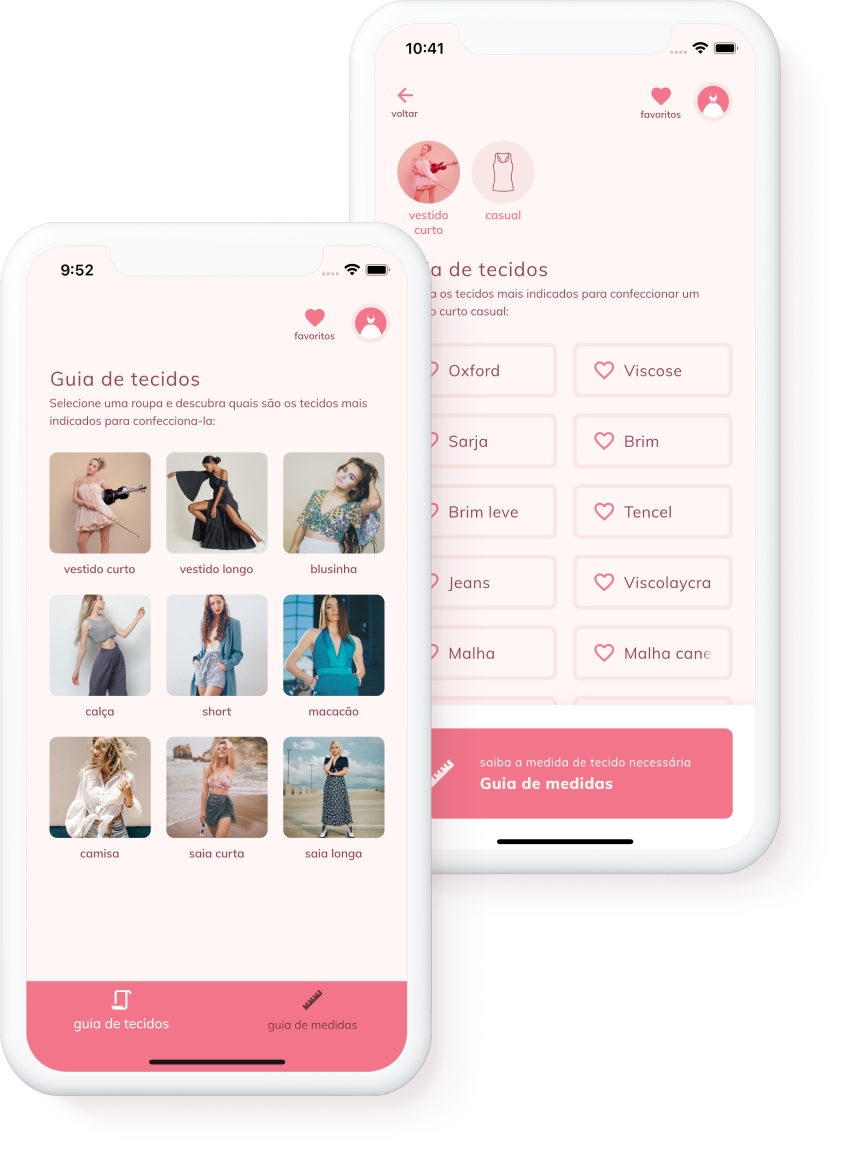
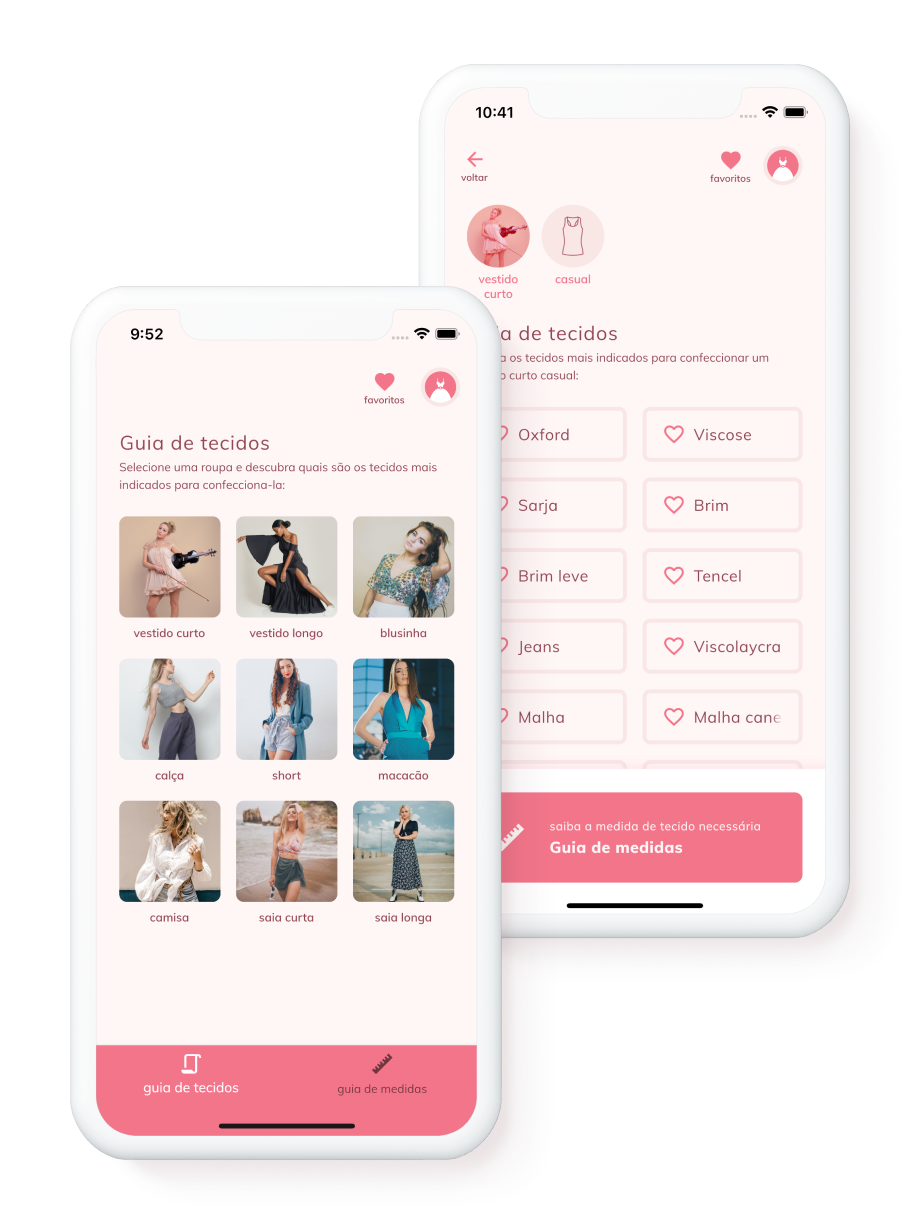
feat: responsive

diff --git a/src/components/Footer/index.ts b/src/components/Footer/index.ts
@@ -1,5 +1,6 @@
 import { LitElement, html } from 'lit';
 import { privacyPolicy } from '../../constants/routes';
+import { developer } from '../../constants/external-links';
 import '../nav-social/nav-social';
 import styles from './styles';
 
@@ -11,6 +12,8 @@ export class FooterComponent extends LitElement {
       <footer>
         <container-component justifyContent="space-between" alignItems="center">
           <div class="footer-left">
+            <nav-social></nav-social>
+
             <a
               href=${privacyPolicy.path}
               title="Política de privacidade do Aplicativo"
@@ -19,13 +22,18 @@ export class FooterComponent extends LitElement {
                 Política de privacidade do App
               </ds-paragraph>
             </a>
-            <ds-paragraph size="small">
-              © 2021, Desenvolvido por Abner Simões
-            </ds-paragraph>
           </div>
 
           <div class="footer-right">
-            <nav-social></nav-social>
+            <ds-paragraph size="small">
+              © 2021, Desenvolvido por
+              <a
+                href=${developer}
+                title="Portfólio do desenvolvedor Abner Simões"
+                target="_blank"
+                >Abner Simões</a
+              >
+            </ds-paragraph>
           </div>
         </container-component>
       </footer>

diff --git a/src/components/Footer/styles.ts b/src/components/Footer/styles.ts
@@ -2,17 +2,65 @@ import { css } from 'lit';
 
 export default css`
   :host {
-    display: block;
+    display: flex;
   }
 
   footer {
     width: 100%;
-    height: 8rem;
+    padding: var(--spacing-inset-sm) 0;
+    margin-top: var(--spacing-outset-sm);
+  }
+
+  .footer-left,
+  .footer-right {
+    width: 100%;
+    text-align: center;
   }
 
   .footer-left a {
-    color: var(--color-primary-dark);
-    margin-bottom: 1rem;
     display: block;
+    color: var(--color-primary-dark);
+    margin: var(--spacing-outset-sm) 0 var(--spacing-outset-xs) 0;
   }
+
+  .footer-left nav-social {
+    justify-content: center;
+  }
+
+  @media only screen and (min-width: 480px) {
+  }
+
+  /* @media only screen and (min-width: 600px) { */
+  @media only screen and (min-width: 900px) {
+    footer {
+      /* padding: 0; */
+      margin-top: 0;
+    }
+
+    .footer-left,
+    .footer-right {
+      width: 50%;
+    }
+
+    .footer-left {
+      text-align: left;
+    }
+
+    .footer-right {
+      text-align: right;
+      align-self: flex-end;
+    }
+
+    .footer-left nav-social {
+      justify-content: flex-start;
+      margin-bottom: 0;
+    }
+
+    .footer-left a {
+      margin-bottom: var(--spacing-outset-xxs);
+    }
+  }
+
+  /* @media only screen and (min-width: 900px) {
+  } */
 `;

diff --git a/src/components/Header/index.ts b/src/components/Header/index.ts
@@ -1,5 +1,6 @@
 import { LitElement, html } from 'lit';
 import { property } from 'lit/decorators.js';
+import clsx from 'clsx';
 import styles from './styles';
 import { home } from '../../constants/routes';
 import { playStore, appStore } from '../../constants/external-links';
@@ -20,8 +21,12 @@ export class HeaderComponent extends LitElement {
     window.open(store, '_blank');
   }
 
+  _isMobile(): boolean {
+    return getIsMobile();
+  }
+
   _renderDownloadButton() {
-    if (getIsMobile()) {
+    if (this._isMobile()) {
       return html`
         <ds-button @on-click=${() => this._redirectToStore()} raised>
           Baixar App
@@ -35,7 +40,11 @@ export class HeaderComponent extends LitElement {
     return html`
       <header>
         <container-component justifyContent="space-between" alignItems="center">
-          <a href=${home.path} title="Página inicial" class="logo">
+          <a
+            href=${home.path}
+            title="Página inicial"
+            class=${clsx('logo', { isMobile: this._isMobile() })}
+          >
             <img src=${logo} alt="logo" />
             <h1>Lena Melo - Costureira</h1>
           </a>

diff --git a/src/components/Header/styles.ts b/src/components/Header/styles.ts
@@ -7,27 +7,61 @@ export default css`
 
   header {
     width: 100%;
-    height: 10rem;
+    padding: var(--spacing-inset-sm) 0;
     display: flex;
     align-items: center;
     justify-content: space-between;
   }
 
   .logo {
-    max-width: 17.5rem;
-    display: flex;
+    max-width: 15rem;
+    margin: 0 auto var(--spacing-outset-xxxl) auto;
   }
 
   .logo h1 {
+    opacity: 0;
     visibility: hidden;
+    height: 0;
+    margin: 0;
   }
 
   nav {
+    width: 100%;
     display: flex;
+    justify-content: center;
     align-items: center;
   }
 
   nav ds-button-link {
     margin-right: var(--spacing-outset-xs);
+  }
+
+  @media only screen and (min-width: 480px) {
+    header {
+      padding-bottom: var(--spacing-inset-xxxl);
+    }
+
+    .logo {
+      margin-bottom: 0;
+    }
+
+    .logo.isMobile {
+      margin: 0;
+    }
+
+    nav {
+      width: auto;
+      padding-top: 0;
+    }
+  }
+
+  @media only screen and (min-width: 900px) {
+    header {
+      padding-bottom: var(--spacing-inset-sm);
+    }
+
+    .logo {
+      margin: 0;
+    }
   }
 `;

diff --git a/src/pages/home/styles.ts b/src/pages/home/styles.ts
@@ -2,16 +2,53 @@ import { css } from 'lit';
 
 export default css`
   .content {
-    width: 50%;
+    width: 100%;
+    box-sizing: border-box;
   }
 
   .content.info {
-    padding-bottom: 5rem;
+    padding-bottom: var(--spacing-inset-sm);
+    text-align: center;
+  }
+
+  .content.info nav-store {
+    justify-content: center;
   }
 
   .content img {
+    max-width: 100%;
     max-height: 36.25rem;
     display: block;
-    margin-left: auto;
+    margin: 0 auto;
+  }
+
+  @media only screen and (min-width: 480px) {
+  }
+
+  @media only screen and (min-width: 600px) {
+  }
+
+  @media only screen and (min-width: 900px) {
+    .content {
+      width: 50%;
+    }
+
+    .content.info {
+      padding-right: 1rem;
+      padding-bottom: 5rem;
+      text-align: left;
+    }
+
+    .content.info nav-store {
+      justify-content: flex-start;
+    }
+
+    .content.image {
+      padding-left: 1rem;
+    }
+
+    .content img {
+      margin-right: 0;
+    }
   }
 `;

diff --git a/src/components/nav-social/styles.ts b/src/components/nav-social/styles.ts
@@ -2,7 +2,7 @@ import { css } from 'lit';
 
 export default css`
   :host {
-    display: block;
+    display: flex;
   }
 
   nav {
@@ -25,5 +25,18 @@ export default css`
   a:hover {
     fill: var(--color-neutral-high-light);
     background-color: var(--color-primary-pure);
+  }
+
+  a:active {
+    background-color: var(--color-primary-dark);
+    border-color: var(--color-primary-dark);
+  }
+
+  a:first-of-type {
+    margin-left: 0;
+  }
+
+  a:last-of-type {
+    margin-right: 0;
   }
 `;

diff --git a/src/constants/external-links.ts b/src/constants/external-links.ts
@@ -9,3 +9,5 @@ export const whatsapp = 'https://api.whatsapp.com/send?phone=5517996556579';
 export const facebook = 'https://www.facebook.com/lenamelocostureira';
 
 export const instagram = 'https://www.instagram.com/lenamelocostureira';
+
+export const developer = 'http://abnersimoes.com.br/';

diff --git a/src/components/nav-store/styles.ts b/src/components/nav-store/styles.ts
@@ -2,7 +2,7 @@ import { css } from 'lit';
 
 export default css`
   :host {
-    display: block;
+    display: flex;
   }
 
   nav {
